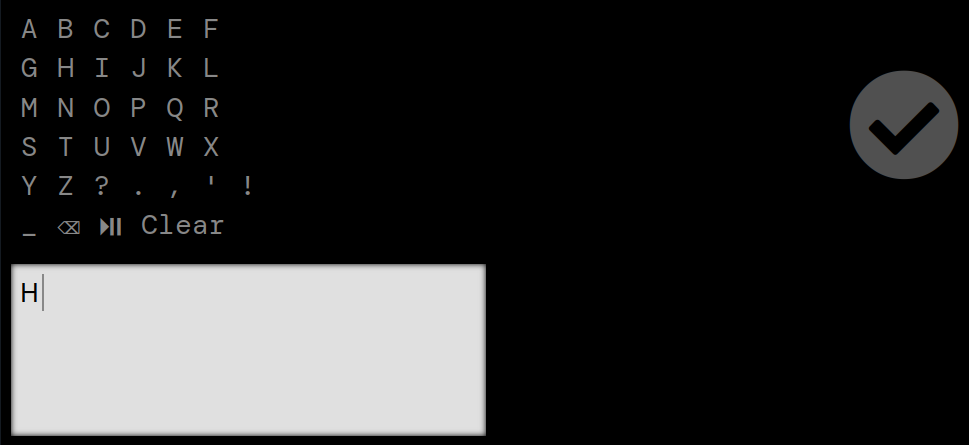
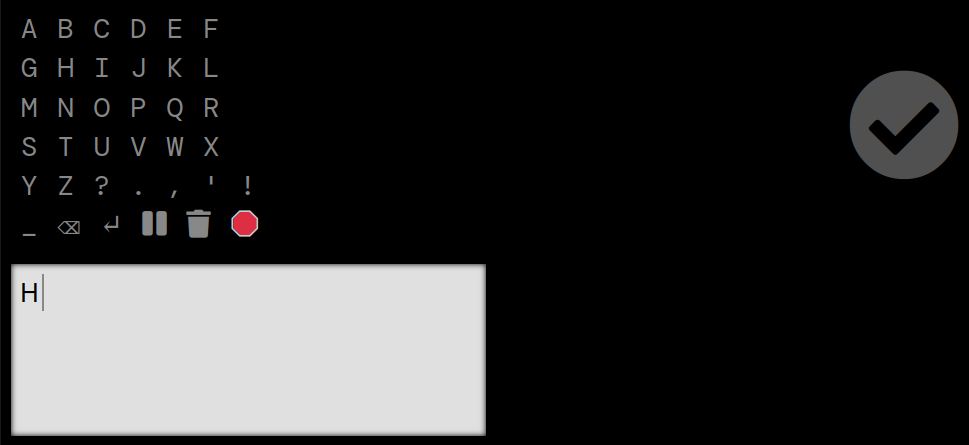
Updates

Changed region(s): [[0.0929, 0.4674, 0.2786, 0.5551]]

diff --git a/js/type.js b/js/type.js
@@ -34,7 +34,7 @@
     showMessage('<span class="blink">Loading eye-tracker...</span>');
 
     window.addEventListener('load', function() {
-        //hideMessage(); setUpEyeMsg(false); return; // Just show the layout for development purposes
+        hideMessage(); setUpEyeMsg(false); return; // Just show the layout for development purposes
 
         webgazer.showPredictionPoints(false);
         webgazer.showFaceOverlay(false);
@@ -196,11 +196,6 @@
     let charRotationPause = parseInt(localStorage.getItem('charRotationPause')) >= 1000 ? parseInt(localStorage.getItem('charRotationPause')) : 1500;
     ///////////////////////////////////////////////////////////////
 
-    ///////////////////////////////////////////////////////////////
-    // Mode is either 'chat' or 'compose'
-    let eyeMsgMode = ['chat', 'compose'].includes(sessionStorage.getItem('eyeMsgMode')) ? sessionStorage.getItem('eyeMsgMode') : 'chat';
-    ///////////////////////////////////////////////////////////////
-
 
     //////////////////////////////////////////////////////////////
     // Section based typing
@@ -214,24 +209,14 @@
 
     let eyeMsgChars;
 
-    const eyeMsgAlphaKeys = [
+    const eyeMsgKeys = [
         ['A', 'B', 'C', 'D', 'E', 'F'],
         ['G', 'H', 'I', 'J', 'K', 'L'],
         ['M', 'N', 'O', 'P', 'Q', 'R'],
         ['S', 'T', 'U', 'V', 'W', 'X'],
         ['Y', 'Z', '?', '.', ',', '\'', '!'],
+        ['_', '⌫', '↵', '<i class="fas fa-pause" data-character="Pause"></i>', '<i class="fas fa-trash" data-character="Empty"></i>', '🛑'],
     ];
-
-    const eyeMsgSpecialKeys = {
-        //'chat': ['_', '⌫', '⏯', 'Reset'],
-        //'chat': ['_', '⌫', '↵', '⏯', '<i class="fas fa-trash" data-character="Empty"></i>', '🛑'],
-        //'compose': ['_', '⌫', '↵', '⏯', '🛑'],
-        'chat': ['_', '⌫', '↵', '<i class="fas fa-pause" data-character="Pause"></i>', '<i class="fas fa-trash" data-character="Empty"></i>', '🛑'],
-        'compose': ['_', '⌫', '↵', '<i class="fas fa-pause" data-character="Pause"></i>', '<i class="fas fa-trash" data-character="Empty"></i>', '🛑'],
-    };
-
-    // Page load should not contain any previous text.
-    //document.querySelector('#eye-msg-text').value = '';
 
     // Hard-set the height so contents can scroll
     const setEyeMsgTextBoxHeight = function() {
@@ -262,8 +247,7 @@
         eyeMsgInterval = null;
 
         eyeMsgChars = [];
-        for (const charset of eyeMsgAlphaKeys) eyeMsgChars.push(charset);
-        eyeMsgChars.push(eyeMsgSpecialKeys[eyeMsgMode]);
+        for (const charset of eyeMsgKeys) eyeMsgChars.push(charset);
 
         let html = '';
         const u = document.createElement('div');
@@ -298,8 +282,11 @@
     document.querySelector('#eye-msg-menu .interval').addEventListener('change', function() {
         charRotationPause = this.value * 1000;
         localStorage.setItem('charRotationPause', charRotationPause);
-        clearInterval(eyeMsgInterval);
-        eyeMsgInterval = setInterval(() => { setEyeMsgFocus(); }, charRotationPause);
+
+        // If the rotation is going make sure it uses the new setting.
+        if (document.querySelector('#eye-msg-menu .start-stop[data-action="stop"]')) {
+            startEyeMsg();
+        }
     });
 
     document.querySelectorAll('#eye-msg-menu .quit').forEach(e => { e.addEventListener('click', function() {
@@ -319,16 +306,6 @@
             eyeMsgInterval = setInterval(setEyeMsgFocus, charRotationPause);
         });
     })});
-
-    document.querySelectorAll('#eye-msg-menu .mode').forEach(e => {
-        e.value = eyeMsgMode;
-
-        e.addEventListener('change', function() {
-            eyeMsgMode = this.value;
-            sessionStorage.setItem('eyeMsgMode', eyeMsgMode);
-            startEyeMsg();
-        });
-    });
 
     document.querySelectorAll('#eye-msg-menu .start-stop').forEach(e => {
         e.addEventListener('click', function() {
@@ -381,6 +358,7 @@
         
             document.querySelectorAll('.eye-msg-charsets .highlight').forEach(ee => { ee.classList.remove('highlight'); });
             document.querySelectorAll('#eye-msg-menu .start-stop').forEach(e => { e.setAttribute('data-action', 'start'); });
+            document.querySelectorAll('.eye-msg-charsets [data-character="🛑"], .eye-msg-charsets [data-character="Stop"], .eye-msg-charsets [data-character="Done"]').forEach(e => { e.classList.add('highlight'); }); 
 
             webgazer.clearGazeListener();
         } catch (error) {
@@ -456,9 +434,6 @@
                 // Fire the dialog
                 eyeDialog('stop-dialog');
                 return;
-
-                //stopEyeMsg();
-                //return;
             } else if (['Clear', 'Reset', 'Empty', 'NewMsg', '🗑'].includes(c)) {
                 eyeDialog('empty-dialog');
                 return;
@@ -571,7 +546,7 @@
 
             eyeDialogOptions = d.querySelectorAll('.eye-dialog-option');
             eyeDialogOptionIndex = 0;
-            eyeDialogRotationNum = 0;
+            eyeDialogRotationNum = 1;
             eyeDialogDefaultAction = defaultAction;
 
             if (eyeDialogOptions.length > 0) {

diff --git a/instructions.html b/instructions.html
@@ -60,21 +60,20 @@
 
                 <p>That's all there is to it! Repeat the process to type your message.</p>
 
-                <p>The last row contains characters for space, backspace, etc.</p>
+                <p>The last row contains controls for space, backspace, line return, pause, &quot;delete all&quot; and &quot;stop typing&quot;.</p>
 
                 <p>When you miss the row or character you want, just wait and the highlight rotation will go back to the beginning.</p>
 
                 <h4>Settings</h4>
 
-                <p>At the bottom of the screen you have some more controls.</p>
+                <p>At the bottom of the screen there are some setting controls which are activated by clicking.</p>
                 <img src="images/settings-menu.png">
 
                 <ol>
-                    <li>You can change the typewriter mode between &quot;chat&quot;, to communicate with people in the room, or &quot;compose&quot; to compose a longer message.</li>
                     <li>You can adjust the highlight rotation speed.</li>
                     <li>You can recalibrate the eye tracker. e.g. If the user needs to move you may need to recalibrate after.</li>
-                    <li>You can stop or restart typing.</li>
                     <li>You can copy the user's text to clipboard so that it can be pasted into an email, card, etc.</li>
+                    <li>You can stop or restart typing.</li>
                 </ol>
 
                 <p>If you are helping someone else use the site please keep in mind that the muscles turning the eye eventually tire of moving in these patterns and it may be a good idea to give the typist a break after a while.</p>
